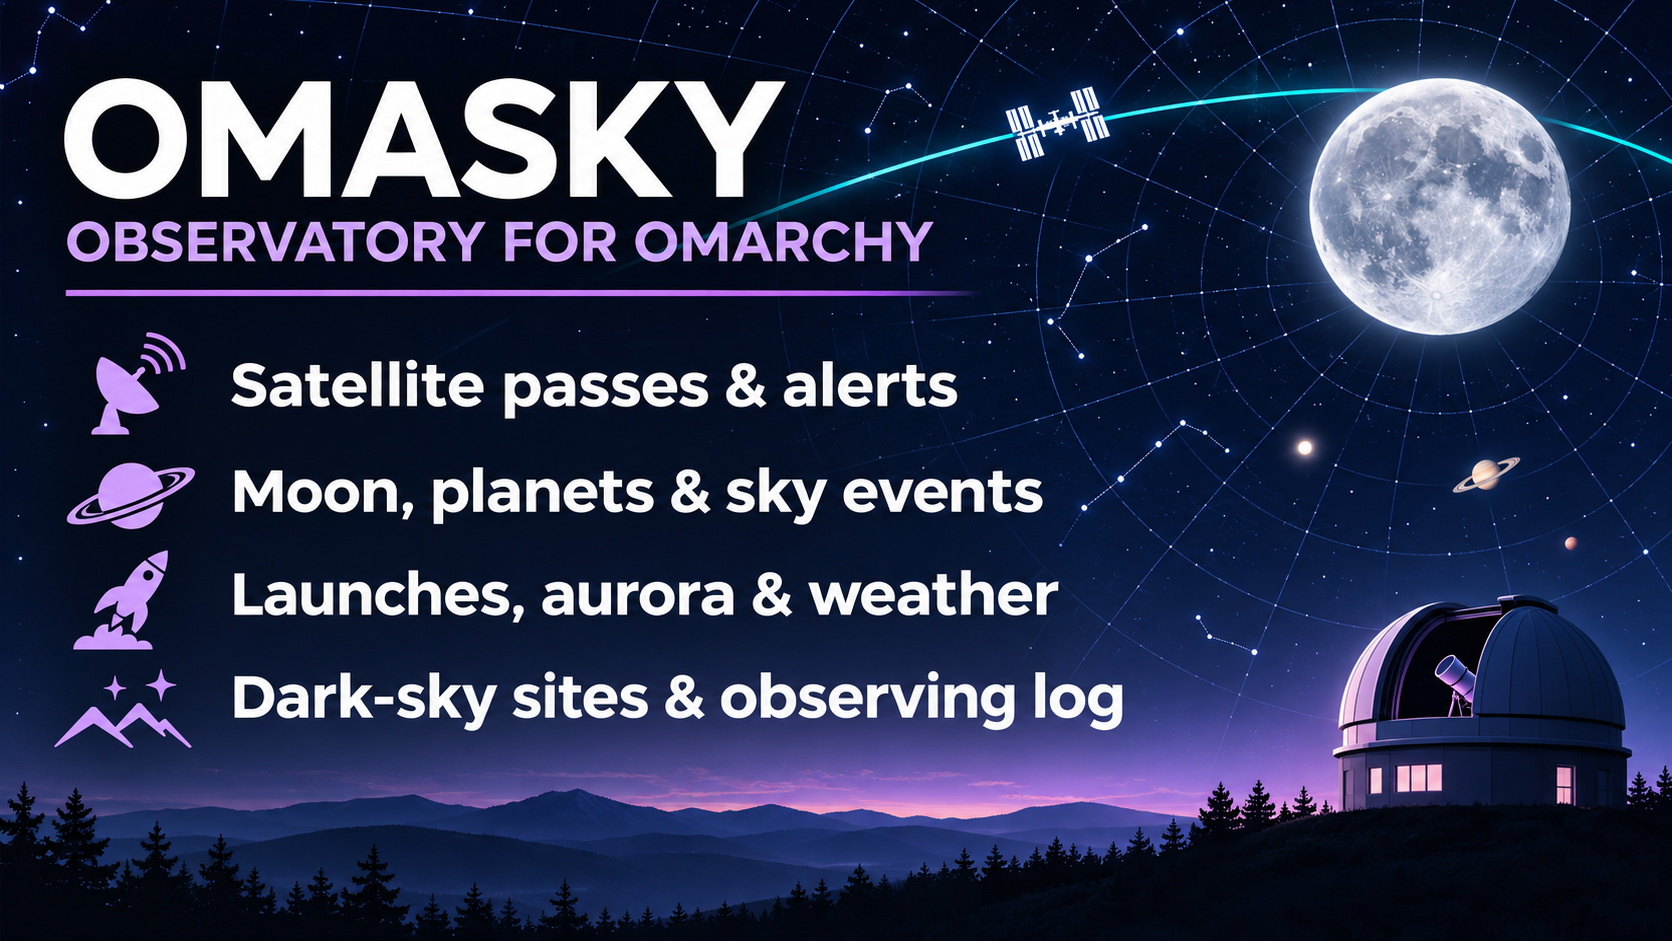
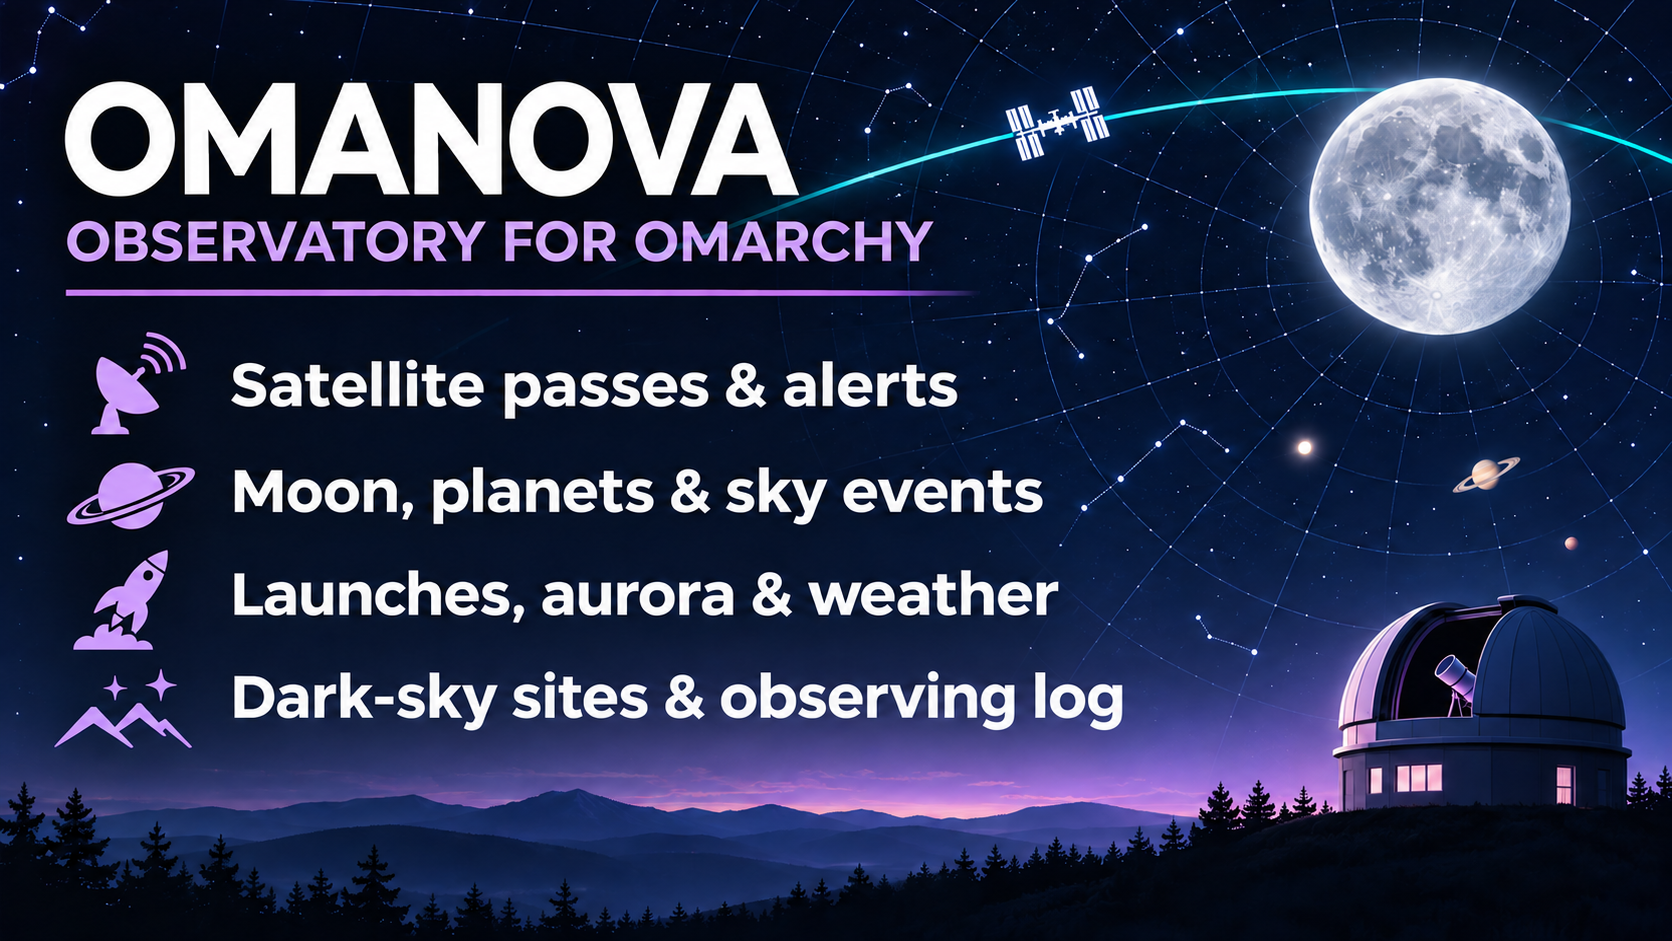
Rename Omasky to OMANOVA

diff --git a/observatory/Window.qml b/observatory/Window.qml
@@ -13,7 +13,7 @@ ShellRoot {
     LazyLoader {
         active: shell.settingsTrial && shell.compactOpen
         FloatingWindow {
-            title: qsTr("Omasky · Compact panel preview")
+            title: qsTr("OMANOVA · Compact panel preview")
             color: "#070d1b"
             implicitWidth: 610
             implicitHeight: 490
@@ -35,7 +35,7 @@ ShellRoot {
 
     FloatingWindow {
         id: window
-        title: "Omasky Observatory · " + (shell.settingsTrial ? "Settings preview" : sky.fixture ? "Fixture preview" : "Live data test")
+        title: "OMANOVA Observatory · " + (shell.settingsTrial ? "Settings preview" : sky.fixture ? "Fixture preview" : "Live data test")
         color: "#070d1b"
         implicitWidth: 1050
         implicitHeight: 700
@@ -258,7 +258,7 @@ ShellRoot {
                     ColumnLayout {
                         Layout.fillWidth: true
                         spacing: 0
-                        Copy { text: "OMASKY"; font.letterSpacing: 3; font.weight: Font.DemiBold }
+                        Copy { text: "OMANOVA"; font.letterSpacing: 3; font.weight: Font.DemiBold }
                         Tag { text: "LOCAL OBSERVATORY" }
                     }
                     Item { Layout.fillWidth: true }

diff --git a/BarWidget.qml b/BarWidget.qml
@@ -36,7 +36,7 @@ Ui.BarWidget {
         }
     }
     ShellIpc {
-        target: "io.github.shaggyrs6-netizen.omasky"
+        target: "io.github.shaggyrs6-netizen.omanova"
         function compact(): bool {
             root.openFallback()
             return root.opened
@@ -48,7 +48,7 @@ Ui.BarWidget {
         bar: root.bar
         labelVisible: false
         hasVisualContent: true
-        tooltipText: (skyState.featured ? ("Omasky · " + (skyState.featured.source_id === 25544 ? "ISS" : "Tiangong") + " · " + (root.condition === "Favourable" ? "Favourable" : root.condition === "Mixed" ? "Mixed" : "Weather uncertain")) : "Omasky") + " · Click for Observatory · Middle-click for compact panel"
+        tooltipText: (skyState.featured ? ("OMANOVA · " + (skyState.featured.source_id === 25544 ? "ISS" : "Tiangong") + " · " + (root.condition === "Favourable" ? "Favourable" : root.condition === "Mixed" ? "Mixed" : "Weather uncertain")) : "OMANOVA") + " · Click for Observatory · Middle-click for compact panel"
         onPressed: function(mouseButton) {
             if (mouseButton === Qt.LeftButton) root.open()
             else if (mouseButton === Qt.MiddleButton)

diff --git a/observatory/notifications/Window.qml b/observatory/notifications/Window.qml
@@ -7,7 +7,7 @@ import Quickshell.Io
 ShellRoot {
     FloatingWindow {
         id: window
-        title: "Omasky · Notification preview"
+        title: "OMANOVA · Notification preview"
         implicitWidth: 640
         implicitHeight: 570
         minimumSize: Qt.size(360, 390)
@@ -75,7 +75,7 @@ ShellRoot {
                         Layout.fillWidth: true
                         Layout.margins: ui.margin
                         spacing: 8
-                        Copy { text: "OMASKY  /  OFFLINE FIXTURE"; color: ui.accent; font.pixelSize: 11; font.letterSpacing: 1.2 }
+                        Copy { text: "OMANOVA  /  OFFLINE FIXTURE"; color: ui.accent; font.pixelSize: 11; font.letterSpacing: 1.2 }
                         Copy { text: "Station alerts"; font.pixelSize: 36; font.weight: Font.DemiBold }
                         Copy { text: "Simulate a pass to try a real desktop notification. Sample alerts use a 15-minute lead and a favourable forecast."; color: ui.muted }
                     }

diff --git a/observatory/dark-sites/DarkSitesPage.qml b/observatory/dark-sites/DarkSitesPage.qml
@@ -60,7 +60,7 @@ ColumnLayout {
         Layout.fillWidth: true
         Layout.margins: 22
         spacing: 8
-        Copy { text: Quickshell.env("OMASKY_DARK_SITES_EMBEDDED") === "1" ? qsTr("OMASKY OBSERVATORY  /  FIELD GUIDE") : qsTr("OMASKY OBSERVATORY  /  PREVIEW"); color: "#70edeb"; font.pixelSize: 12; font.letterSpacing: 1.6 }
+        Copy { text: Quickshell.env("OMASKY_DARK_SITES_EMBEDDED") === "1" ? qsTr("OMANOVA OBSERVATORY  /  FIELD GUIDE") : qsTr("OMANOVA OBSERVATORY  /  PREVIEW"); color: "#70edeb"; font.pixelSize: 12; font.letterSpacing: 1.6 }
         Copy { text: qsTr("Dark-sky sites"); font.pixelSize: 34; font.bold: true }
         Copy { text: qsTr("Near Mount Juliet, Tennessee"); color: "#a7b7ce" }
         Copy {

diff --git a/observatory/observing-log/ObservingLogPage.qml b/observatory/observing-log/ObservingLogPage.qml
@@ -176,7 +176,7 @@ ColumnLayout {
         Layout.fillWidth: true
         Layout.margins: 22
         spacing: 8
-        Copy { text: page.embedded ? qsTr("OMASKY OBSERVATORY  /  FIELD NOTES") : qsTr("OMASKY OBSERVATORY  /  PRIVATE PREVIEW"); color: "#70edeb"; font.letterSpacing: 1.5; font.pixelSize: 12 }
+        Copy { text: page.embedded ? qsTr("OMANOVA OBSERVATORY  /  FIELD NOTES") : qsTr("OMANOVA OBSERVATORY  /  PRIVATE PREVIEW"); color: "#70edeb"; font.letterSpacing: 1.5; font.pixelSize: 12 }
         Copy { text: qsTr("Observing log"); font.pixelSize: 34; font.bold: true }
         Copy {
             text: page.embedded ? qsTr("Entries stay on this computer. Times use your computer’s time zone.")

diff --git a/observatory/aurora/AuroraPage.qml b/observatory/aurora/AuroraPage.qml
@@ -95,7 +95,7 @@ ColumnLayout {
         Layout.fillWidth: true
         Layout.margins: 22
         spacing: 8
-        Copy { text: page.embedded ? qsTr("OMASKY OBSERVATORY  /  SPACE WEATHER") : qsTr("OMASKY OBSERVATORY  /  PREVIEW"); color: "#70edeb"; font.letterSpacing: 1.5; font.pixelSize: 12 }
+        Copy { text: page.embedded ? qsTr("OMANOVA OBSERVATORY  /  SPACE WEATHER") : qsTr("OMANOVA OBSERVATORY  /  PREVIEW"); color: "#70edeb"; font.letterSpacing: 1.5; font.pixelSize: 12 }
         Copy { text: qsTr("Aurora"); font.pixelSize: 34; font.bold: true }
         Copy {
             text: page.catalog?.fixture ? qsTr("SIMULATED STORM · Nashville · no real alert")

diff --git a/observatory/orbit/OrbitPage.qml b/observatory/orbit/OrbitPage.qml
@@ -121,7 +121,7 @@ ColumnLayout {
         Layout.margins: ui.margin
         Layout.bottomMargin: 0
         spacing: 5
-        Tag { text: ui.orbitData?.fixture ? "OMASKY  /  OFFLINE FIXTURE" : "OMASKY  /  CACHED ORBITAL ELEMENTS"; color: ui.accent }
+        Tag { text: ui.orbitData?.fixture ? "OMANOVA  /  OFFLINE FIXTURE" : "OMANOVA  /  CACHED ORBITAL ELEMENTS"; color: ui.accent }
         Copy { text: "Orbit"; font.pixelSize: 42; font.weight: Font.DemiBold }
         Copy { text: "Ground tracks and the view from your observing point"; color: ui.muted }
     }

diff --git a/observatory/moon/MoonPage.qml b/observatory/moon/MoonPage.qml
@@ -115,7 +115,7 @@ ColumnLayout {
         Layout.margins: ui.gutter
         Layout.bottomMargin: 0
         spacing: 4
-        Tag { text: "OMASKY  /  LUNAR ALMANAC"; color: ui.cyan }
+        Tag { text: "OMANOVA  /  LUNAR ALMANAC"; color: ui.cyan }
         Copy { text: "Moon"; font.pixelSize: 43; font.weight: Font.DemiBold }
         Copy { text: ui.lunar?.fixture ? "Offline Nashville fixture" : "Local observing point · Calculated offline"; color: ui.muted }
     }

diff --git a/SkyState.qml b/SkyState.qml
@@ -79,7 +79,7 @@ QtObject {
         environment: ({ "OPENBLAS_NUM_THREADS": "1" })
         stderr: StdioCollector { id: diagnostic }
         onExited: function(code) {
-            root.message = code === 0 ? "Updated" : (diagnostic.text.trim().slice(0, 220) || "Omasky worker failed")
+            root.message = code === 0 ? "Updated" : (diagnostic.text.trim().slice(0, 220) || "OMANOVA worker failed")
             root.reload()
         }
         onRunningChanged: {

diff --git a/SettingsPage.qml b/SettingsPage.qml
@@ -76,7 +76,7 @@ ColumnLayout {
         Layout.topMargin: page.compact ? 4 : 20
         visible: !page.compact
         spacing: 7
-        Copy { text: qsTr("OMASKY OBSERVATORY  /  CONFIGURATION"); color: "#70edeb"; font.letterSpacing: 1.3 }
+        Copy { text: qsTr("OMANOVA OBSERVATORY  /  CONFIGURATION"); color: "#70edeb"; font.letterSpacing: 1.3 }
         Heading { text: qsTr("Settings"); font.pixelSize: 32 }
         Copy {
             visible: page.trial

diff --git a/observatory/plumes/PlumePage.qml b/observatory/plumes/PlumePage.qml
@@ -99,7 +99,7 @@ ColumnLayout {
         Layout.margins: 22
         spacing: 8
         Copy {
-            text: page.tool ? qsTr("OMASKY OBSERVATORY  /  EXPERIMENTAL") : qsTr("OMASKY OBSERVATORY  /  EXPERIMENTAL PREVIEW")
+            text: page.tool ? qsTr("OMANOVA OBSERVATORY  /  EXPERIMENTAL") : qsTr("OMANOVA OBSERVATORY  /  EXPERIMENTAL PREVIEW")
             color: "#70edeb"
             font.pixelSize: 12
             font.letterSpacing: 1.6

diff --git a/observatory/trains/TrainPage.qml b/observatory/trains/TrainPage.qml
@@ -87,7 +87,7 @@ ColumnLayout {
         Layout.margins: 22
         spacing: 8
         Copy {
-            text: page.tool ? qsTr("OMASKY OBSERVATORY  /  EXPERIMENTAL") : qsTr("OMASKY OBSERVATORY  /  EXPERIMENTAL PREVIEW")
+            text: page.tool ? qsTr("OMANOVA OBSERVATORY  /  EXPERIMENTAL") : qsTr("OMANOVA OBSERVATORY  /  EXPERIMENTAL PREVIEW")
             color: "#70edeb"
             font.letterSpacing: 1.4
             font.pixelSize: 12
